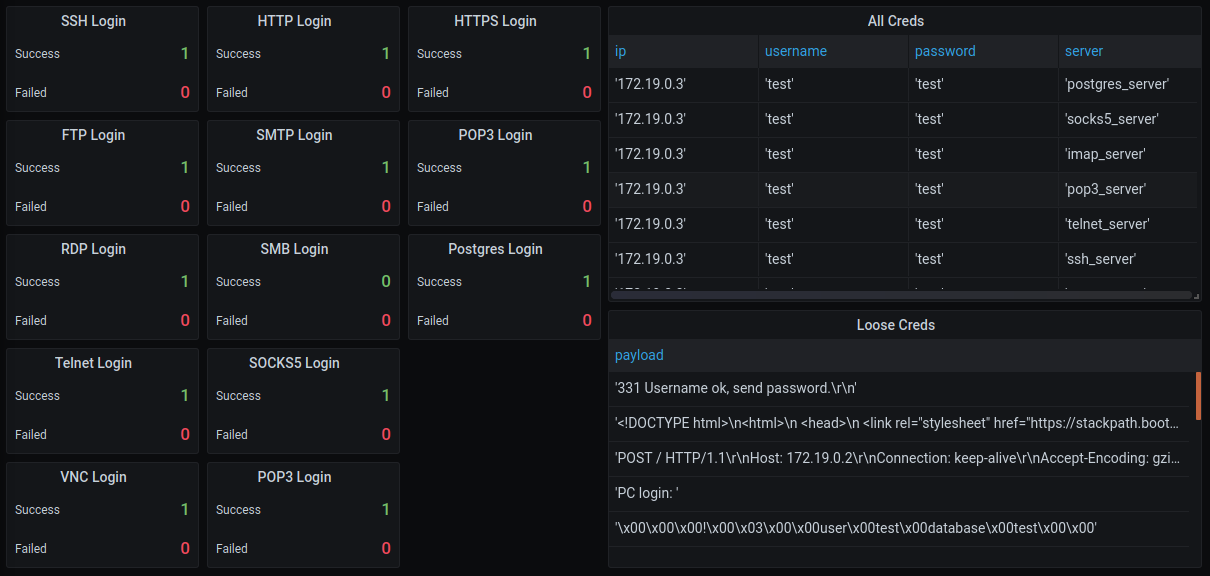
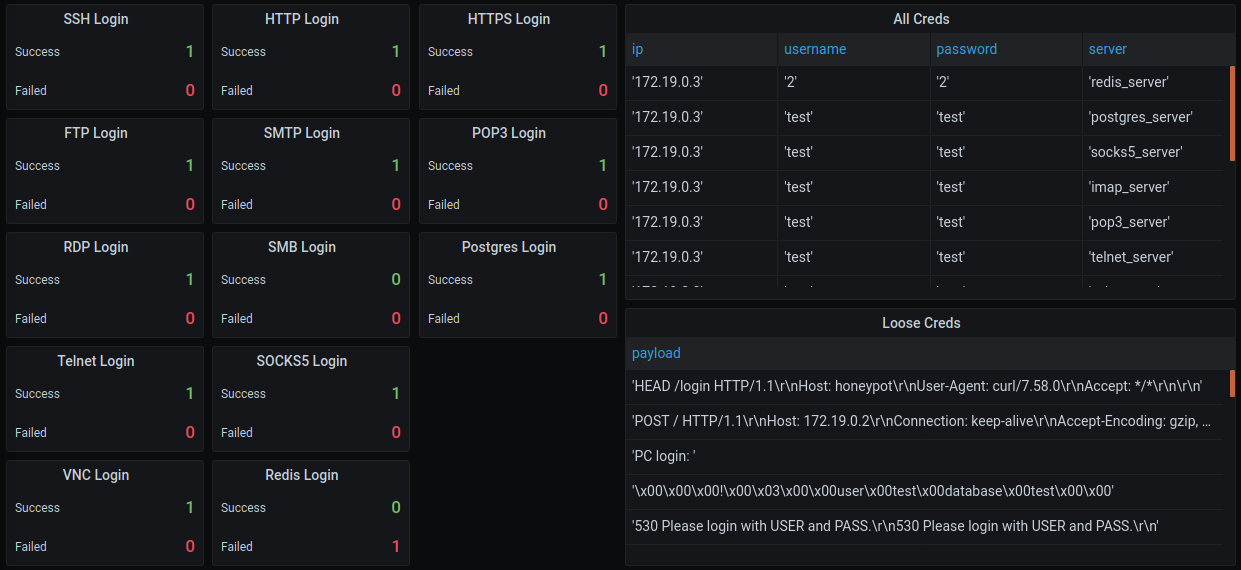
v1.04

diff --git a/honeypot/modules/redis_server.py b/honeypot/modules/redis_server.py
@@ -1,0 +1,141 @@
+__G__ = "(G)bd249ce4"
+
+from twisted.internet.protocol import Protocol,Factory
+from twisted.internet import reactor
+from psutil import process_iter
+from signal import SIGTERM
+from time import sleep
+from multiprocessing import Process
+from logging import DEBUG, basicConfig, getLogger
+from twisted.python import log as tlog
+from os import path
+from tempfile import gettempdir,_get_candidate_names
+from redis import StrictRedis
+
+class QRedisServer():
+	def __init__(self,ip=None,port=None,username=None,password=None,mocking=False,logs=None):
+		self.ip= ip or '0.0.0.0'
+		self.port = port or 6379
+		self.username = username or "test"
+		self.password = password or "test"
+		self.setup_logger(logs)
+		self.disable_logger()
+
+	def disable_logger(self):
+		temp_name = path.join(gettempdir(), next(_get_candidate_names()))
+		tlog.startLogging(open(temp_name, "w"), setStdout=False)
+
+	def setup_logger(self,logs):
+		self.logs = getLogger("chameleonlogger")
+		self.logs.setLevel(DEBUG)
+		if logs:
+			from custom_logging import CustomHandler
+			self.logs.addHandler(CustomHandler(logs))
+		else:
+			basicConfig()
+
+	def redis_server_main(self):
+		_q_s = self
+
+		class CustomRedisProtocol(Protocol):
+
+			def get_command(self,data):
+				try:
+					_data = data.split('\x0d\x0a')
+					auth = {}
+					if _data[0][0] == "*":
+						_count = int(_data[0][1]) - 1
+						_data.pop(0)
+						if _data[0::2][0][0] == "$" and len(_data[1::2][0]) == int(_data[0::2][0][1]):
+							return _count,_data[1::2][0]
+				except:
+					pass
+
+				return 0,""
+
+			def parse_data(self,c,data):
+				_data = data.split('\r\n')[3::]
+				user, password = "",""
+				if c == 2:
+					_ = 0
+					if _data[0::2][_][0] == "$" and len(_data[1::2][_]) == int(_data[0::2][_][1]):
+						user =(_data[1::2][_])
+					_ = 1
+					if _data[0::2][_][0] == "$" and len(_data[1::2][_]) == int(_data[0::2][_][1]):
+						password  = (_data[1::2][_])
+				if c == 1:
+					_ = 0
+					if _data[0::2][_][0] == "$" and len(_data[1::2][_]) == int(_data[0::2][_][1]):
+						password =(_data[1::2][_])
+				if c == 2 or c == 1:
+					if user == _q_s.username and password == _q_s.password:
+						_q_s.logs.info(["servers",{'server':'redis_server','action':'login','status':'success','ip':self.transport.getPeer().host,'port':self.transport.getPeer().port,'username':_q_s.username,'password':_q_s.password}])
+					else:
+						_q_s.logs.info(["servers",{'server':'redis_server','action':'login','status':'failed','ip':self.transport.getPeer().host,'port':self.transport.getPeer().port,'username':user,'password':password}])
+
+			def connectionMade(self):
+				self._state = 1
+				self._variables = {}
+
+			def dataReceived(self, data):
+				c,command = self.get_command(data)
+				if command == "AUTH":
+					self.parse_data(c,data)
+					self.transport.write(b"-ERR invalid password\r\n")
+				else:
+					self.transport.write(b"-ERR unknown command '{}'\r\n".format(command))
+				self.transport.loseConnection()
+
+		factory = Factory()
+		factory.protocol = CustomRedisProtocol
+		reactor.listenTCP(port=self.port, factory=factory, interface=self.ip)
+		reactor.run()
+
+	def run_server(self,process=False):
+		self.close_port()
+		if process:
+			self.redis_server = Process(name='QRedisServer_', target=self.redis_server_main)
+			self.redis_server.start()
+		else:
+			self.redis_server_main()
+
+	def kill_server(self,process=False):
+		self.close_port()
+		if process:
+			self.redis_server.terminate()
+			self.redis_server.join()
+
+	def test_server(self,ip,port,username,password):
+		sleep(3)
+		try:
+			_ip = ip or self.ip
+			_port = port or self.port 
+			_username = username or self.username
+			_password = password or self.password
+			r= StrictRedis.from_url('redis://{}:{}@{}:{}/1'.format(_username,_password,_ip,_port))
+			for key in r.scan_iter("user:*"):
+				pass
+		except Exception:
+			pass
+
+	def close_port(self):
+		for process in process_iter():
+			try:
+				for conn in process.connections(kind='inet'):
+					if self.port == conn.laddr.port:
+						process.send_signal(SIGTERM)
+						process.kill()
+			except:
+				pass
+
+if __name__ == "__main__":
+	from server_options import server_arguments
+	parsed = server_arguments()
+
+	if parsed.docker or parsed.aws or parsed.custom:
+		qrediserver = QRedisServer(ip=parsed.ip,port=parsed.port,username=parsed.username,password=parsed.password,mocking=parsed.mocking,logs=parsed.logs)
+		qrediserver.run_server()
+
+	if parsed.test:
+		qrediserver = QRedisServer(ip=parsed.ip,port=parsed.port,username=parsed.username,password=parsed.password,mocking=parsed.mocking,logs=parsed.logs)
+		qrediserver.test_server(ip=parsed.ip,port=parsed.port,username=parsed.username,password=parsed.password)

diff --git a/honeypot/testing.py b/honeypot/testing.py
@@ -12,6 +12,7 @@ from modules.pop3_server import QPOP3Server
 from modules.socks5_server import QSOCKS5Server
 from modules.postgres_server import QPostgresServer
 from modules.imap_server import QIMAPServer
+from modules.redis_server import QRedisServer
 from modules.server_options import server_arguments
 from socket import gethostbyname
 
@@ -62,3 +63,6 @@ qsocks5server.test_server(ip=parsed.ip,port=parsed.port,username=parsed.username
 print("Testing QPostgresServer")
 qpostgresserver = QPostgresServer(ip=parsed.ip,port=parsed.port,username=parsed.username,password=parsed.password,mocking=parsed.mocking,logs=parsed.logs)
 qpostgresserver.test_server(ip=parsed.ip,port=parsed.port,username=parsed.username,password=parsed.password)
+print("Testing QRedisServer")
+qredisserver = QRedisServer(ip=parsed.ip,port=parsed.port,username=parsed.username,password=parsed.password,mocking=parsed.mocking,logs=parsed.logs)
+qredisserver.test_server(ip=parsed.ip,port=parsed.port,username=parsed.username,password=parsed.password)

diff --git a/honeypot/modules/vnc_server.py b/honeypot/modules/vnc_server.py
@@ -146,9 +146,9 @@ if __name__ == "__main__":
 	parsed = server_arguments()
 
 	if parsed.docker or parsed.aws or parsed.custom:
-		QVNCServer = QVNCServer(ip=parsed.ip,port=parsed.port,username=parsed.username,password=parsed.password,mocking=parsed.mocking,logs=parsed.logs)
-		QVNCServer.run_server()
+		qvncserver = QVNCServer(ip=parsed.ip,port=parsed.port,username=parsed.username,password=parsed.password,mocking=parsed.mocking,logs=parsed.logs)
+		qvncserver.run_server()
 
 	if parsed.test:
-		QVNCServer = QVNCServer(ip=parsed.ip,port=parsed.port,username=parsed.username,password=parsed.password,mocking=parsed.mocking,logs=parsed.logs)
-		QVNCServer.test_server(ip=parsed.ip,port=parsed.port,username=parsed.username,password=parsed.password)
+		qvncserver = QVNCServer(ip=parsed.ip,port=parsed.port,username=parsed.username,password=parsed.password,mocking=parsed.mocking,logs=parsed.logs)
+		qvncserver.test_server(ip=parsed.ip,port=parsed.port,username=parsed.username,password=parsed.password)

diff --git a/honeypot/modules/sniffer.py b/honeypot/modules/sniffer.py
@@ -112,7 +112,6 @@ class QSniffer():
 if __name__ == "__main__":
 	from server_options import server_arguments
 	parsed = server_arguments()
-	print(parsed)
 	if parsed.docker or parsed.aws or parsed.custom:
 		qsniffer = QSniffer(filter=parsed.filter,interface=parsed.interface,logs=parsed.logs)
 		qsniffer.run_sniffer()

diff --git a/README.md b/README.md
@@ -3,7 +3,7 @@
 #
 [![Generic badge](https://img.shields.io/badge/dynamic/json.svg?url=https://raw.githubusercontent.com/qeeqbox/chameleon/master/info&label=version&query=$.version&colorB=blue)](https://github.com/qeeqbox/chameleon/blob/master/changes.md) [![Generic badge](https://img.shields.io/badge/dynamic/json.svg?url=https://raw.githubusercontent.com/qeeqbox/chameleon/master/info&label=docker-compose&query=$.dockercompose&colorB=green)](https://github.com/qeeqbox/chameleon/blob/master/changes.md)
 
-Customizable honeypots for monitoring network traffic, bots activities and username\password credentials (DNS, HTTP Proxy, HTTP, HTTPS, SSH, POP3, IMAP, STMP, RDP, VNC, SMB, SOCK5, TELNET and Postgres)
+Customizable honeypots for monitoring network traffic, bots activities and username\password credentials (DNS, HTTP Proxy, HTTP, HTTPS, SSH, POP3, IMAP, STMP, RDP, VNC, SMB, SOCKS5, Redis TELNET and Postgres)
 
 ## Grafana Interface
 <img src="https://raw.githubusercontent.com/qeeqbox/chameleon/master/readme/intro.png" style="max-width:768px"/>
@@ -19,7 +19,7 @@ Customizable honeypots for monitoring network traffic, bots activities and usern
 - Most honeypots serve as servers (Only a few that emulate the application layer protocols)
 - Settings servers with username, password and banner (Default username and password are test)
 - ICMP, DNS TCP and UDP payloads are parsed and check against common patterns
-- Visualized Grafana interfaces for monitoring the results (Filter by IP)
+- Visualized Grafana interfaces for monitoring the results (Filter by IP - default is all)
 - Unstructured and structured logs are parsed and inserted into Postgres
 - All honeypots contain clients for testing the servers
 - All ports are opened and monitored by default
@@ -105,14 +105,14 @@ pip install -Iv rsa==4.0
 - IMAP (Server using Twisted)
 - STMP (Server using smtpd)
 - RDP (Server using Twisted)
-- VNC (Emulator using Twisted)
 - SMB (Server using impacket)
 - SOCK5 (Server using Twisted)
 - TELNET (Server using Twisted)
+- VNC (Emulator using Twisted)
 - Postgres (Emulator using Twisted)
+- Redis (Emulator using Twisted)
 - Mysql (Coming..)
 - Elasticsearch (Coming..)
-- Redis (Coming..)
 - Oracle (Coming..)
 - ldap (maybe)
 
